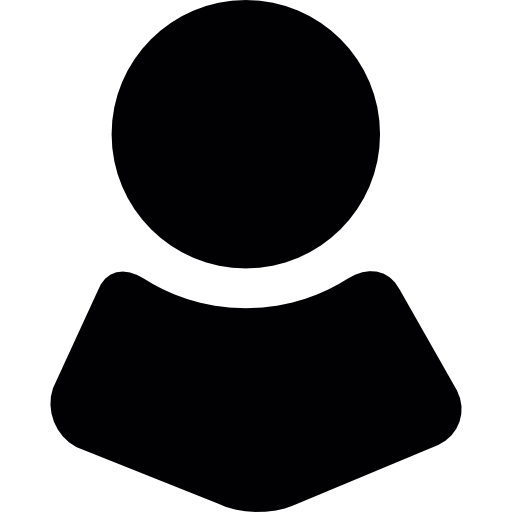
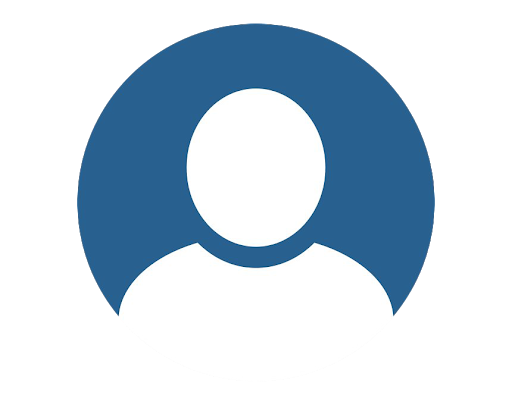
get users from server

diff --git a/src/components/Users/Users.tsx b/src/components/Users/Users.tsx
@@ -1,51 +1,36 @@
-import Avatar from '@material-ui/core/Avatar'
 import Button from '@material-ui/core/Button'
+import axios from 'axios'
 import React from 'react'
-import { v1 } from 'uuid'
 import { UsersPropsFromRedux } from './UsersContainer'
+import profileIcon from '../../assets/profileIcon.png'
 
 type PropsType = UsersPropsFromRedux
 export const Users: React.FC<PropsType> = (props) => {
     if (props.usersPage.users.length === 0) {
-        props.setUsers([
-            {
-                id: v1(),
-                photoUrl: '',
-                followed: true,
-                fullname: 'Matvei',
-                status: 'I am Front-End Developer',
-                location: { city: 'Vancouver', country: 'Canada' },
-            },
-            {
-                id: v1(),
-                photoUrl: '',
-                followed: true,
-                fullname: 'Tom',
-                status: 'I am Back-End Developer',
-                location: { city: 'Toronto', country: 'Canada' },
-            },
-            {
-                id: v1(),
-                photoUrl: '',
-                followed: false,
-                fullname: 'Viktoria',
-                status: 'I am devops',
-                location: { city: 'Minsk', country: 'Belarus' },
-            },
-        ])
+        axios
+            .get('https://social-network.samuraijs.com/api/1.0/users')
+            .then((response) => {
+                props.setUsers(response.data.items)
+            })
     }
     return (
         <div>
             {props.usersPage.users.map((u) => (
                 <div className="card" key={u.id}>
-                    <Avatar
-                        alt={u.fullname}
-                        src={'/static/images/avatar/1.jpg'}
+                    <img
+                        src={
+                            u.photos.small !== null
+                                ? u.photos.small
+                                : profileIcon
+                        }
+                        alt="ProfileImage"
+                        width="90px"
                     />
-                    <h1>{u.fullname}</h1>
+
+                    <h3>{u.name}</h3>
                     <h4>{u.status}</h4>
                     <h5>
-                        {u.location.city}, {u.location.country}
+                        {'Vancouver'}, {'Canada'}
                     </h5>
                     <p>
                         {u.followed ? (

diff --git a/src/Types.ts b/src/Types.ts
@@ -38,13 +38,17 @@ export type LocationType = {
     city: string
     country: string
 }
+export type PhotosTypes = {
+    small: string | null | undefined
+    large: string | null | undefined
+}
 export type UserType = {
     id: string
-    fullname: string
+    name: string
     status: string
     location: LocationType
     followed: boolean
-    photoUrl: string
+    photos: PhotosTypes
 }
 
 export type UsersPageType = {
@@ -58,4 +62,3 @@ export type ActionsTypes =
     | ReturnType<typeof followAC>
     | ReturnType<typeof unfollowAC>
     | ReturnType<typeof setUsersAC>
-
